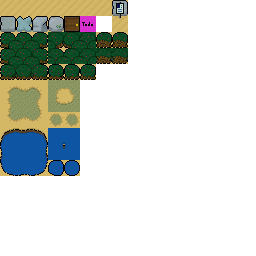
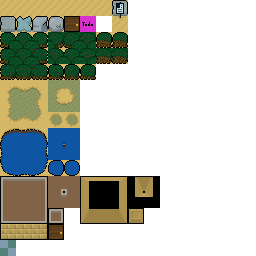
make jigpiece purchasable, and place all the items

Changed region(s): [[0.0, 0.6875, 0.625, 1.0]]

diff --git a/src/game/modal/modal_shop.c b/src/game/modal/modal_shop.c
@@ -214,7 +214,13 @@ static void shop_purchase(struct modal *modal,const struct option *option) {
   
   // Reject if we are already full. If it exceeds the limit, reduce quantity.
   int quantity=option->quantity;
-  if (quantity) {
+  if (option->itemid==NS_itemid_jigpiece) {
+    if (store_get_jigstore(quantity)) { // Shouldn't have created the option in this case, but hey.
+      struct modal_args_dialogue args={.rid=RID_strings_dialogue,.strix=3};
+      modal_spawn(&modal_type_dialogue,&args,sizeof(args));
+      return;
+    }
+  } else if (quantity) {
     int limit=0;
     int havec=possessed_quantity_for_itemid(option->itemid,&limit);
     if (havec>=limit) {
@@ -531,9 +537,12 @@ int modal_shop_add_item(struct modal *modal,int itemid,int price,int quantity) {
   
   /* If it's a quantity-bearing item, and caller gave an explicit quantity, bake that into the diplay name.
    * Not quantity-bearing, clear (quantity), it won't be used.
+   * Jigpiece is special. Don't check quantity generically; (quantity) is the mapid.
    */
   char tmp_quantity[256];
-  if (detail->initial_limit&&quantity) {
+  if (itemid==NS_itemid_jigpiece) {
+    if (!quantity||store_get_jigstore(quantity)) return 0;
+  } else if (detail->initial_limit&&quantity) {
     int tmpc=snprintf(tmp_quantity,sizeof(tmp_quantity),"%.*s x%d",namec,name,quantity);
     if ((tmpc<0)||(tmpc>=sizeof(tmp_quantity))) return -1;
     name=tmp_quantity;

diff --git a/src/game/activity/activity_shops.c b/src/game/activity/activity_shops.c
@@ -404,3 +404,21 @@ void begin_templeshop(struct sprite *sprite) {
   modal_shop_add_item(modal,NS_itemid_magnifier,10,0);//TODO maybe here?
   modal_shop_add_item(modal,NS_itemid_telescope,10,0);//TODO maybe here?
 }
+
+/* The Inconvenience Store, at the very southwest corner of the world.
+ */
+ 
+void begin_inconvenience(struct sprite *sprite) {
+  struct modal_args_shop args={
+    .rid=RID_strings_dialogue,
+    .strix=100,
+    .speaker=sprite,
+  };
+  struct modal *modal=modal_spawn(&modal_type_shop,&args,sizeof(args));
+  if (!modal) return;
+  modal_shop_add_item(modal,NS_itemid_candy,1,0);
+  modal_shop_add_item(modal,NS_itemid_bugspray,1,0);
+  modal_shop_add_item(modal,NS_itemid_bomb,3,0);
+  modal_shop_add_item(modal,NS_itemid_jigpiece,20,93);
+  modal_shop_add_item(modal,NS_itemid_busstop,10,0);
+}

diff --git a/src/game/activity/activity.c b/src/game/activity/activity.c
@@ -53,6 +53,7 @@ void game_begin_activity(int activity,int arg,struct sprite *initiator) {
     case NS_activity_phonograph: begin_phonograph(); break;
     case NS_activity_crystal: begin_crystal(); break;
     case NS_activity_busstop: begin_busstop(arg); break;
+    case NS_activity_inconvenience: begin_inconvenience(initiator); break;
     default: {
         fprintf(stderr,"Unknown activity %d.\n",activity);
       }

diff --git a/src/game/activity/activity_internal.h b/src/game/activity/activity_internal.h
@@ -25,6 +25,7 @@ void begin_thingwalla(struct sprite *initiator);
 void begin_fishprocessor(struct sprite *initiator);
 void begin_castleshop(struct sprite *initiator);
 void begin_templeshop(struct sprite *initiator);
+void begin_inconvenience(struct sprite *initiator);
 
 // activity_sidequests.c
 void begin_tolltroll(struct sprite *initiator,int arg);

diff --git a/src/game/shared_symbols.h b/src/game/shared_symbols.h
@@ -255,6 +255,7 @@
 #define NS_activity_phonograph 33
 #define NS_activity_crystal 34
 #define NS_activity_busstop 35 /* (u16)busstop */
+#define NS_activity_inconvenience 36
 
 #define NS_sprtype_dummy        0 /* (u32)0 */
 #define NS_sprtype_hero         1 /* (u32)0 */

diff --git a/src/game/store.c b/src/game/store.c
@@ -31,7 +31,7 @@ static int store_sanitize() {
  */
  
 int store_clear() {
-  fprintf(stderr,"%s\n",__func__);
+  //fprintf(stderr,"%s\n",__func__);
   g.store.fldc=0;
   g.store.fld16c=0;
   g.store.clockc=0;

diff --git a/README.md b/README.md
@@ -33,6 +33,7 @@ Requires [Egg](https://github.com/aksommerville/egg2) to build.
 - [ ] Animate digging with shovel.
 - [ ] Battle wrapper: Issue a warning before timing out. And 60 s feels too long. Gather some stats on how long they are actually taking.
 - [ ] broomrace: Player faces. And can we do cool swooshing frames like apothecary?
+- [ ] Earthquakes don't shake the camera in singleton maps due to clamping. They do need to.
 
 - For exploration some time in the uncertain future.
 - [ ] Can we randomize the statuemaze like we did cryptmsg?
@@ -129,15 +130,15 @@ Requires [Egg](https://github.com/aksommerville/egg2) to build.
 - [ ] hc3
 - [ ] hc4
 - [ ] hc5
-- [ ] Bomb. Must be in a shop.
-- [ ] Stopwatch.
-- [ ] Bus Stop.
-- [ ] Snowglobe.
-- [ ] Tape Measure.
-- [ ] Phonograph.
-- [ ] Crystal Ball.
+- [x] Bomb: inconvenience
+- [x] Stopwatch: fractia, temporarily
+- [x] Bus Stop: inconvenience
+- [x] Snowglobe: fractia, temporarily
+- [x] Tape Measure: fractia, temporarily
+- [x] Phonograph: fractia, temporarily
+- [x] Crystal Ball: fractia, temporarily
 - [x] Power Glove: Sea monster (Labyrinth).
-- [ ] Marionette.
+- [x] Marionette: fractia, temporarily
 - Can add as many purse upgrades as we like. I guess no more than 9, so it stays within 3 digits?
 
 ## Sprites with placeholder battle
